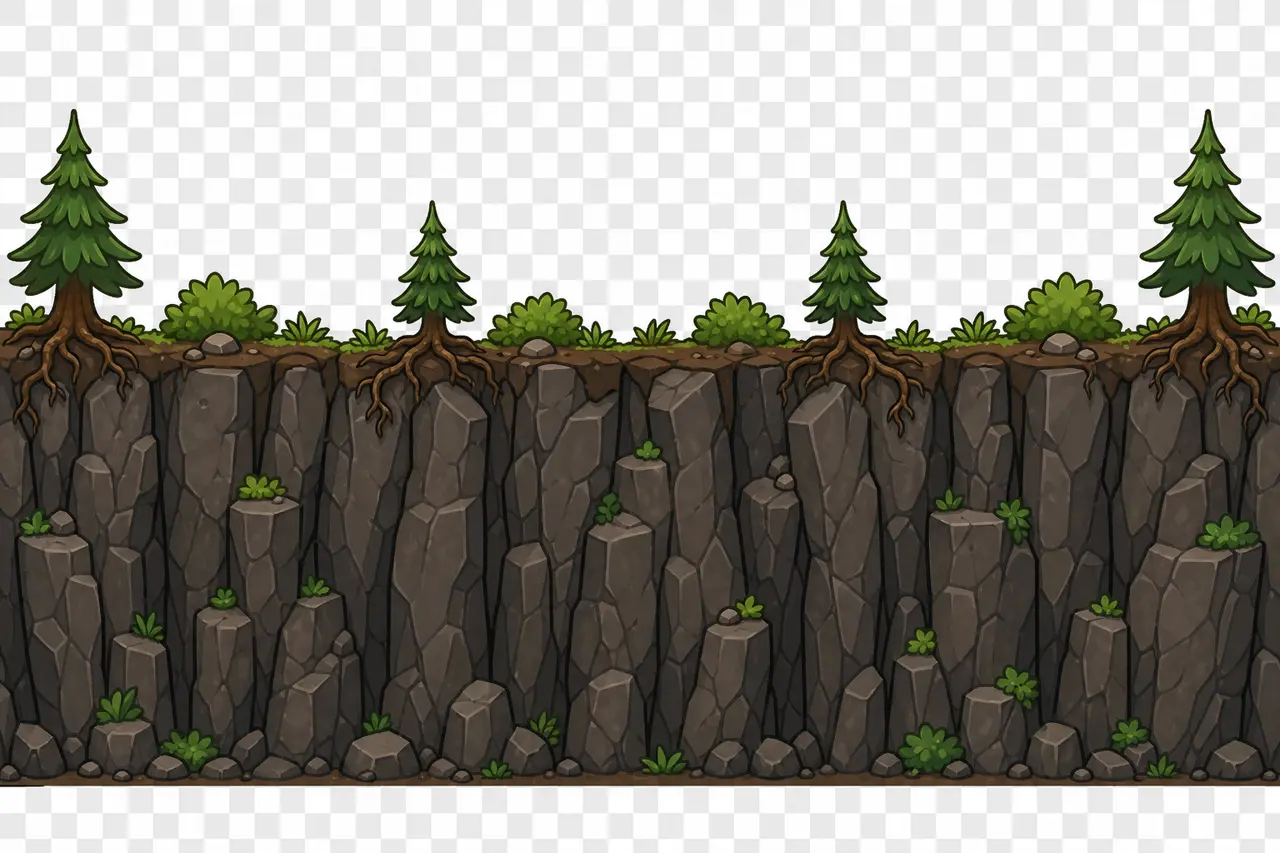
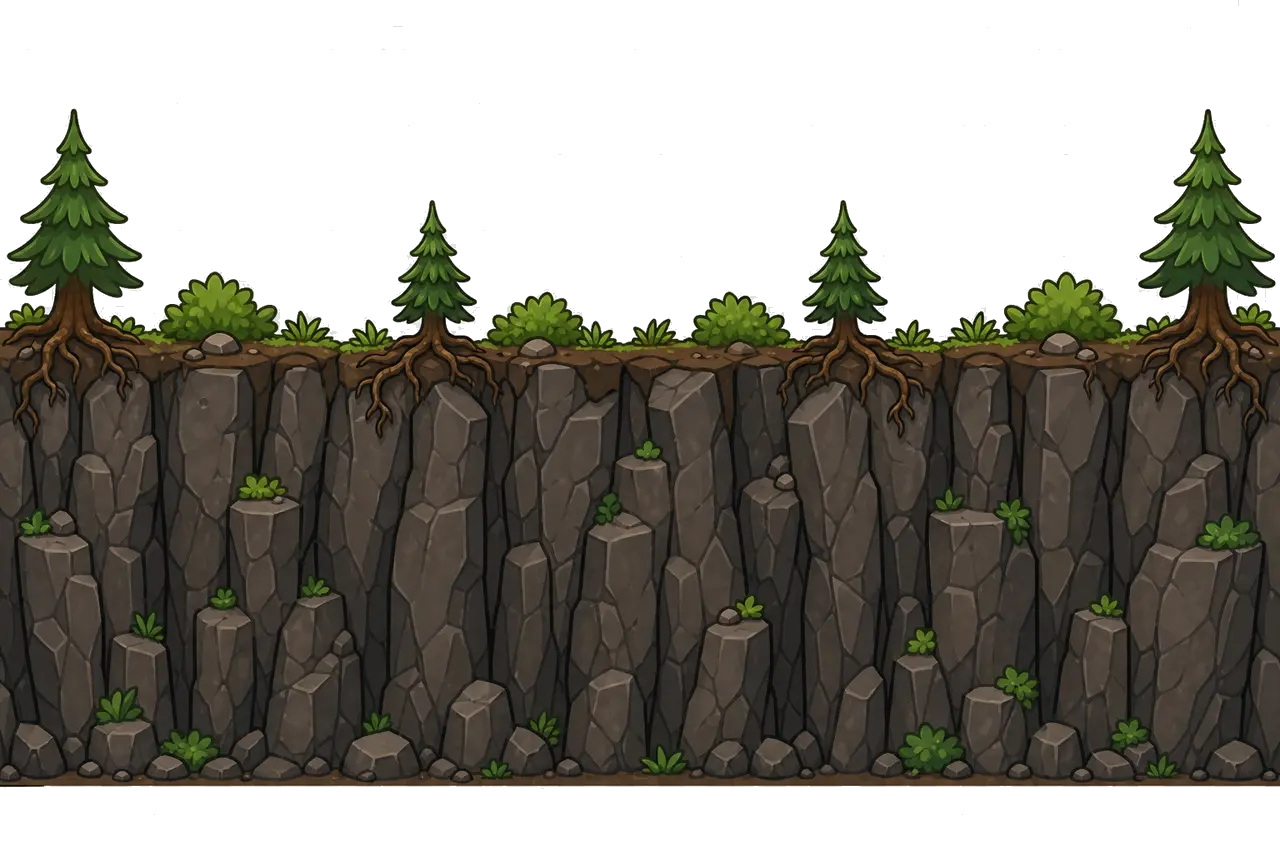
Replace Ninja Climb sprites with transparent WebP assets
Convert idle, idle_b, rope, deco, cliff, plateau, and summit art to
lossless WebP with keyed transparent backgrounds. Update managers,
warmup, verify-assets, and ASSETS.md to reference the new paths.

diff --git a/src/lib/game-asset-warmup.ts b/src/lib/game-asset-warmup.ts
@@ -35,9 +35,9 @@ export function getNinjaClimbSceneAssetUrls(): string[] {
     '/images/ninja-climb/plateau_3.webp',
     '/images/ninja-climb/summit.webp',
     '/images/ninja-climb/answer_cloud.png',
-    '/images/ninja-climb/deco_tree.png',
-    '/images/ninja-climb/deco_bush.png',
-    '/images/ninja-climb/deco_hut.png',
+    '/images/ninja-climb/deco_tree.webp',
+    '/images/ninja-climb/deco_bush.webp',
+    '/images/ninja-climb/deco_hut.webp',
     '/images/ninja-climb/cloud_1.png',
     '/images/ninja-climb/cloud_2.png',
     '/images/ninja-climb/cloud_3.png',
@@ -48,18 +48,18 @@ export function getNinjaClimbSceneAssetUrls(): string[] {
     '/images/ninja-climb/icon_teleport.png',
     '/images/ninja-climb/icon_rope.png',
     '/images/ninja-climb/icon_smoke.png',
-    '/images/ninja-climb/ninja_blue_idle.png',
-    '/images/ninja-climb/ninja_blue_idle_b.png',
+    '/images/ninja-climb/ninja_blue_idle.webp',
+    '/images/ninja-climb/ninja_blue_idle_b.webp',
     '/images/ninja-climb/ninja_blue_climb.png',
     '/images/ninja-climb/ninja_blue_teleport.png',
-    '/images/ninja-climb/ninja_blue_rope.png',
+    '/images/ninja-climb/ninja_blue_rope.webp',
     '/images/ninja-climb/ninja_blue_smoke.png',
     '/images/ninja-climb/ninja_blue_cheer.png',
-    '/images/ninja-climb/ninja_red_idle.png',
-    '/images/ninja-climb/ninja_red_idle_b.png',
+    '/images/ninja-climb/ninja_red_idle.webp',
+    '/images/ninja-climb/ninja_red_idle_b.webp',
     '/images/ninja-climb/ninja_red_climb.png',
     '/images/ninja-climb/ninja_red_teleport.png',
-    '/images/ninja-climb/ninja_red_rope.png',
+    '/images/ninja-climb/ninja_red_rope.webp',
     '/images/ninja-climb/ninja_red_smoke.png',
     '/images/ninja-climb/ninja_red_cheer.png',
     '/images/shared/kunai_tip.png',

diff --git a/src/lib/pixi-games/ninja-climb/managers/NinjaClimbPlayerManager.ts b/src/lib/pixi-games/ninja-climb/managers/NinjaClimbPlayerManager.ts
@@ -76,15 +76,16 @@ export class NinjaClimbPlayerManager {
       const color = colors[i % colors.length]
       const team = teams[i]
 
-      const idleA = await this._loadSheet(`${ASSET_BASE}/ninja_${color}_idle.png`, 2)
-      const idleB = await this._loadSheet(`${ASSET_BASE}/ninja_${color}_idle_b.png`, 2)
+      const idleA = await this._loadSheet(`${ASSET_BASE}/ninja_${color}_idle.webp`, 2)
+      const idleB = await this._loadSheet(`${ASSET_BASE}/ninja_${color}_idle_b.webp`, 2)
       const climbSheet = await this._loadSheet(`${ASSET_BASE}/ninja_${color}_climb.png`, 4)
 
       const actionTextures: NinjaActor['actionTextures'] = {}
       for (const action of ['teleport', 'rope', 'smoke', 'cheer'] as const) {
         try {
+          const ext = action === 'rope' ? 'webp' : 'png'
           actionTextures[action] = await PIXI.Assets.load(
-            `${ASSET_BASE}/ninja_${color}_${action}.png`
+            `${ASSET_BASE}/ninja_${color}_${action}.${ext}`
           )
         } catch (e) {
           console.warn(`NinjaClimbPlayerManager: missing ${color} ${action}`, e)

diff --git a/src/components/game_ui/GameContainer.tsx b/src/components/game_ui/GameContainer.tsx
@@ -319,8 +319,8 @@ const GameContainer: React.FC<GameContainerProps> = ({ quizId, gameSlug }) => {
                   {
                     name: 'ninja-climb',
                     assets: [
-                      { key: 'ninja_blue_idle', src: '/images/ninja-climb/ninja_blue_idle.png' },
-                      { key: 'ninja_red_idle', src: '/images/ninja-climb/ninja_red_idle.png' },
+                      { key: 'ninja_blue_idle', src: '/images/ninja-climb/ninja_blue_idle.webp' },
+                      { key: 'ninja_red_idle', src: '/images/ninja-climb/ninja_red_idle.webp' },
                       { key: 'ninja_blue_climb', src: '/images/ninja-climb/ninja_blue_climb.png' },
                       { key: 'ninja_red_climb', src: '/images/ninja-climb/ninja_red_climb.png' },
                       { key: 'sky', src: '/images/ninja-climb/sky.webp' },

diff --git a/src/lib/pixi-games/ninja-climb/managers/NinjaClimbMountainManager.ts b/src/lib/pixi-games/ninja-climb/managers/NinjaClimbMountainManager.ts
@@ -189,7 +189,7 @@ export class NinjaClimbMountainManager {
   }
 
   private async _placeDecorations(): Promise<void> {
-    const decoFiles = ['deco_tree.png', 'deco_bush.png', 'deco_hut.png']
+    const decoFiles = ['deco_tree.webp', 'deco_bush.webp', 'deco_hut.webp']
     for (let i = 0; i < this.path.length; i += 3) {
       if (i === 0 || i === this.path.length - 1) continue
       const wp = this.path[i]

diff --git a/public/ASSETS.md b/public/ASSETS.md
@@ -21,10 +21,10 @@ Game and UI assets live under `public/` and are served statically by Next.js.
 | `images/placeholder.webp` | Quiz/question fallbacks |
 | `images/splash-dash/crate_5_4.png` | Splash Dash crates |
 | `images/splash-dash/capy_spritesheet.png` | Splash Dash players |
-| `images/ninja-climb/ninja_blue_idle.png` | Ninja Climb blue team |
-| `images/ninja-climb/ninja_red_idle.png` | Ninja Climb red team |
-| `images/ninja-climb/ninja_blue_idle_b.png` | Ninja Climb blue idle pose B |
-| `images/ninja-climb/ninja_red_idle_b.png` | Ninja Climb red idle pose B |
+| `images/ninja-climb/ninja_blue_idle.webp` | Ninja Climb blue team |
+| `images/ninja-climb/ninja_red_idle.webp` | Ninja Climb red team |
+| `images/ninja-climb/ninja_blue_idle_b.webp` | Ninja Climb blue idle pose B |
+| `images/ninja-climb/ninja_red_idle_b.webp` | Ninja Climb red idle pose B |
 | `images/ninja-climb/sky.webp` | Ninja Climb sky |
 | `images/ninja-climb/cliff_a.webp` | Ninja Climb cliff tile A |
 | `images/ninja-climb/summit.webp` | Ninja Climb summit tile |
@@ -43,9 +43,9 @@ Game and UI assets live under `public/` and are served statically by Next.js.
 
 ## Ninja Climb notes
 
-- Character strips: `ninja_{blue|red}_idle.png` / `idle_b.png` (2 frames each), `ninja_{blue|red}_climb.png` (4 frames).
-- Mountain tiles: `cliff_{a|b|c}.webp`, `plateau_{1|2|3}.webp`, `summit.webp` (vector cartoon; no band_* art).
-- UI: `answer_cloud.png` for sky answers; `deco_{tree|bush|hut}.png` for sparse ledge props.
+- Character strips: `ninja_{blue|red}_idle.webp` / `idle_b.webp` (2 frames each), `ninja_{blue|red}_climb.png` (4 frames), `ninja_{blue|red}_rope.webp` (action).
+- Mountain tiles: `cliff_{a|b|c}.webp`, `plateau_{1|2|3}.webp`, `summit.webp` (transparent; no band_* art).
+- UI: `answer_cloud.png` for sky answers; `deco_{tree|bush|hut}.webp` for sparse ledge props.
 - Shared rope VFX: `images/shared/kunai_tip.png`, `images/shared/rope_segment.png` (used by `RopeProjectile`).
 - Mode picker thumb: `public/images/marketing/ninjaclimb_thumb.png`.
 
